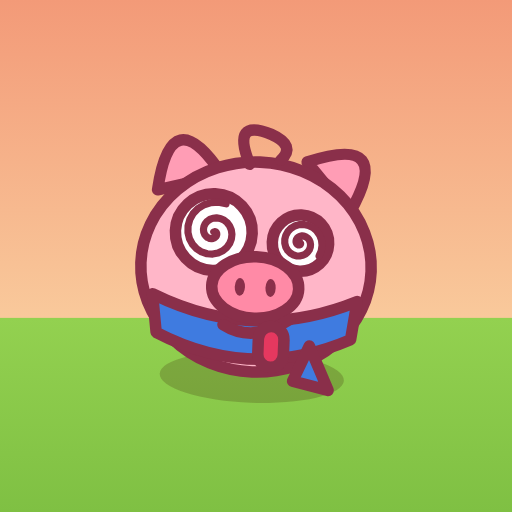
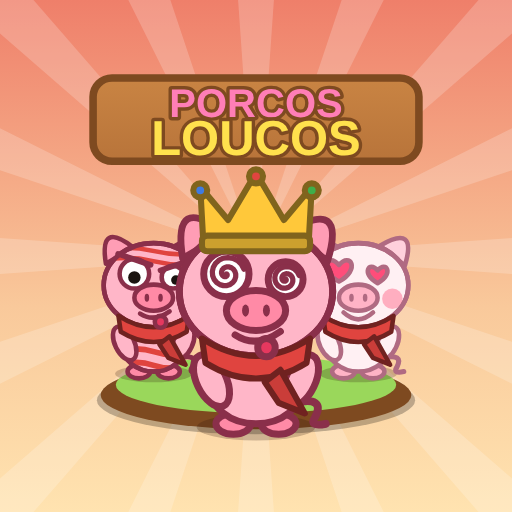
Add files via upload

diff --git a/js-09-ui.js b/js-09-ui.js
@@ -202,6 +202,28 @@ function buildChat() {
   PHRASES.forEach((x, i) => { const b = el('button', '', x); b.onclick = () => { sendChat(12 + i); $('m-chat').hidden = true; }; p.append(b); });
 }
 
+// ---------- cena da capa ----------
+function homeScene(g, w, h, t) {
+  const m = CUR_MAP, cx = w / 2;
+  g.save(); g.translate(cx, h * .52); g.rotate(t * .12);
+  for (let i = 0; i < 14; i++) { g.rotate(TAU / 14); g.fillStyle = 'rgba(255,255,255,.16)'; g.beginPath(); g.moveTo(0, 0); g.lineTo(-w * .07, -w * .8); g.lineTo(w * .07, -w * .8); g.closePath(); g.fill(); }
+  g.restore();
+  const grd = g.createRadialGradient(cx, h * .5, 0, cx, h * .5, w * .5); grd.addColorStop(0, 'rgba(255,255,255,.55)'); grd.addColorStop(1, 'rgba(255,255,255,0)'); g.fillStyle = grd; g.fillRect(0, 0, w, h);
+  // palco: tabuleiro em perspectiva
+  const py = h * .87; g.fillStyle = 'rgba(0,0,0,.22)'; g.beginPath(); g.ellipse(cx, py + 10, w * .44, h * .1, 0, 0, TAU); g.fill();
+  g.fillStyle = m.css.woodDark; g.beginPath(); g.ellipse(cx, py + 6, w * .43, h * .1, 0, 0, TAU); g.fill();
+  g.fillStyle = m.css.wood; g.beginPath(); g.ellipse(cx, py, w * .43, h * .1, 0, 0, TAU); g.fill();
+  g.fillStyle = m.tile[0]; g.beginPath(); g.ellipse(cx, py - 2, w * .39, h * .085, 0, 0, TAU); g.fill();
+  g.save(); g.beginPath(); g.ellipse(cx, py - 2, w * .39, h * .085, 0, 0, TAU); g.clip(); g.fillStyle = m.tile[1];
+  for (let i = -6; i < 7; i++) { if (i % 2) continue; g.beginPath(); g.moveTo(cx + i * w * .07, py - h * .1); g.lineTo(cx + (i + 1) * w * .07, py - h * .1); g.lineTo(cx + (i + 1) * w * .095, py + h * .1); g.lineTo(cx + i * w * .095, py + h * .1); g.fill(); }
+  g.restore();
+  // companheiros
+  const side = (ch, x, ph, flip) => { const l = { ch, o: {} }; drawPig(g, x, h * .7 + Math.sin(t * 2 + ph) * 3, w * .24, l, t, { phase: ph }); };
+  side('bacon', w * .17, 1, 0); side('fofura', w * .83, 2, 1);
+  drawPig(g, cx, h * .58 + Math.abs(Math.sin(t * 2.2)) * -6, w * .44, myLook(), t, { active: Math.sin(t * .8) > .5 });
+  // brilhos
+  for (let i = 0; i < 9; i++) { const a = Math.max(0, Math.sin(t * 2 + i * 2.3)), x = frand(i, 11) * w, y = frand(i, 12) * h * .8, r = 3 + frand(i, 13) * 4 * a; if (a < .1) continue; g.fillStyle = `rgba(255,250,200,${a})`; g.beginPath(); g.moveTo(x, y - r * 2); g.quadraticCurveTo(x, y, x + r * 2, y); g.quadraticCurveTo(x, y, x, y + r * 2); g.quadraticCurveTo(x, y, x - r * 2, y); g.quadraticCurveTo(x, y, x, y - r * 2); g.fill(); }
+}
 // ---------- laço de animação ----------
 let lastTs = 0, lastDraw = 0;
 function frame(ts) {
@@ -211,7 +233,7 @@ function frame(ts) {
   const sg = sky.getContext('2d'); sg.setTransform(sky._d, 0, 0, sky._d, 0, 0); drawSky(sg, innerWidth, T, CUR_MAP, low);
   if (P.set.fx && view.screen !== 'game' && CUR_MAP.weather) { const fg = fx.getContext('2d'); fg.setTransform(fx._d, 0, 0, fx._d, 0, 0); fg.clearRect(0, 0, innerWidth, innerHeight); weatherParticles(fg, innerWidth, innerHeight, T, CUR_MAP.weather, low, .9); }
   const v = view.screen;
-  if (v === 'home') { const cv = $('homePig'), w = cv.clientWidth || 200, g = ctxOf(cv, w, w); drawPig(g, w / 2, w * .55, w * .72, myLook(), T, { active: Math.sin(T * .8) > .6 }); }
+  if (v === 'home') { const cv = $('homePig'), w = cv.clientWidth || 300, h = cv.clientHeight || 250, g = ctxOf(cv, w, h); homeScene(g, w, h, T); }
   else if (v === 'game' && G && G.on) { stepGame(dt); renderGame(); }
   else if (v === 'shop') { const cv = $('shopPig'), w = cv.clientWidth || 130, g = ctxOf(cv, w, w); drawPig(g, w / 2, w * .62, w * .6, shopLook(), T, { active: true }); }
   else if (v === 'maps') { const S = Math.round(clamp(innerWidth - 110, 200, 360)), cv = $('mapCv'); cv.style.width = cv.style.height = S + 'px'; const d = DPR(); if (cv._k !== S + ':' + d) { cv.width = cv.height = Math.round(S * d); cv._k = S + ':' + d; } MV.st.turn = 0; const looks = [myLook(), { ch: 'bacon', o: {} }]; drawBoard(cv.getContext('2d'), S, { map: MAPS[MV.i], st: MV.st, q: 0, t: T, dpr: d, hints: null, ghost: null, disp: MV.st.p.map(p => ({ x: p.c, y: p.r })), looks, fxOn: P.set.fx, low }); }

diff --git a/style.css b/style.css
@@ -14,10 +14,13 @@ h3{font-size:16px;margin:10px 0 6px}
 .coins{background:var(--paper);border:3px solid var(--wood-dark);border-radius:20px;padding:5px 12px;font-size:16px;white-space:nowrap}
 .me{background:var(--paper);border:3px solid var(--wood-dark);border-radius:16px;padding:4px 12px;text-align:left;display:flex;flex-direction:column;font:inherit;color:inherit;line-height:1.15}
 .mename{font-size:16px}.merank{font-size:12px;opacity:.7}
-.logo{text-align:center;margin-top:4px;font-family:'Baloo 2',sans-serif;line-height:.9;transform:rotate(-3deg)}
+.logo{text-align:center;margin:6px 10px 0;padding:8px 10px 12px;font-family:'Baloo 2',sans-serif;line-height:.88;transform:rotate(-2.5deg);background:linear-gradient(var(--wood-light),var(--wood));border:4px solid var(--wood-dark);border-radius:22px;box-shadow:0 6px 0 var(--wood-dark),0 14px 20px rgba(0,0,0,.25);position:relative;animation:sway 4s ease-in-out infinite}
+.logo::before,.logo::after{content:'';position:absolute;top:-9px;width:14px;height:14px;border-radius:50%;background:#e8d9b8;border:3px solid var(--wood-dark)}
+.logo::before{left:16px}.logo::after{right:16px}
+@keyframes sway{50%{transform:rotate(-1deg) translateY(-2px)}}
 .l1{font-size:46px;color:#ff7eb6;-webkit-text-stroke:3px var(--wood-dark);paint-order:stroke fill;text-shadow:0 4px 0 var(--wood-dark)}
 .l2{font-size:58px;color:#ffe14d;-webkit-text-stroke:3px var(--wood-dark);paint-order:stroke fill;text-shadow:0 5px 0 var(--wood-dark)}
-.homepig{width:200px;height:200px;align-self:center;margin:-6px 0 -22px}
+.homepig{width:100%;max-width:340px;height:250px;align-self:center;margin:-4px 0 -6px}
 .rankbar{position:relative;height:22px;background:rgba(0,0,0,.25);border-radius:12px;overflow:hidden;border:2px solid var(--wood-dark);margin:0 20px}
 .rankfill{position:absolute;inset:0 auto 0 0;background:linear-gradient(#ffe14d,#f1a81c);width:0}
 .rankbar span{position:relative;display:block;text-align:center;font-size:12px;line-height:18px;color:#3a2410}
@@ -100,4 +103,8 @@ input[type=range]{width:150px;accent-color:var(--wood)}
 .rlines{font-size:14px;text-align:left}.rlines div{display:flex;justify-content:space-between}
 .rrew{font-size:18px;font-family:'Baloo 2'}
 #toast{position:fixed;left:50%;bottom:90px;transform:translateX(-50%);z-index:50;background:#3a2410;color:#fff;border-radius:20px;padding:10px 18px;font-size:15px;max-width:90%;text-align:center}
-@media (max-height:700px){.logo .l1{font-size:36px}.logo .l2{font-size:44px}.homepig{width:150px;height:150px}}
+@media (max-height:700px){.logo .l1{font-size:36px}.logo .l2{font-size:44px}.homepig{width:100%;max-width:340px;height:250px;align-self:center;margin:-4px 0 -6px}}
+
+#board,#mapCv,#howCv{box-sizing:content-box}
+
+.btn.big#bPlay{font-size:26px;padding:14px;animation:pulse 1.8s infinite;box-shadow:0 0 0 4px rgba(255,255,255,.35)}

diff --git a/js-05-maps.js b/js-05-maps.js
@@ -180,7 +180,7 @@ function drawBoard(g, S, o) {
   // porcos: sempre em pé, na ordem de profundidade da tela
   const vp = [], N2 = st.n; for (let i = 0; i < N2; i++) { const d = o.disp[i]; const [vx, vy] = rotPt(d.x + .5, d.y + .5, q); vp.push({ i, vx, vy }); }
   vp.sort((a, b) => a.vy - b.vy);
-  for (const v of vp) drawPig(g, v.vx * cell, v.vy * cell + cell * .15, cell * .8, o.looks[v.i], t, { ring: SEATS[v.i].color, active: st.winner < 0 && st.turn === v.i, phase: v.i * 1.9, rot: 0 });
+  for (const v of vp) drawPig(g, v.vx * cell, v.vy * cell + cell * .1, cell * .85, o.looks[v.i], t, { ring: SEATS[v.i].color, active: st.winner < 0 && st.turn === v.i, phase: v.i * 1.9, rot: 0 });
   if (o.fxOn !== false && map.weather) weatherParticles(g, S, S, t, map.weather, o.low, .7);
   // pontos voando e balões de chat
   for (const f of (o.floats || [])) { const [fx, fy] = rotPt(f.x, f.y, q), k = f.age; g.save(); g.globalAlpha = Math.max(0, 1 - k * k); g.font = `800 ${Math.round(cell * .38)}px Nunito, sans-serif`; g.textAlign = 'center'; g.lineWidth = 4; g.strokeStyle = 'rgba(60,30,10,.85)'; g.fillStyle = f.color || '#ffe14d'; g.strokeText(f.text, fx * cell, (fy - k * .9) * cell); g.fillText(f.text, fx * cell, (fy - k * .9) * cell); g.restore(); }

diff --git a/sw.js b/sw.js
@@ -1,5 +1,5 @@
 // Service worker: deixa o jogo abrir sem internet. As salas online (Firebase) nunca passam pelo cache.
-const CACHE = "porcos-loucos-v5";
+const CACHE = "porcos-loucos-v9";
 const ARQUIVOS = ["./", "index.html", "style.css", "config.js", "manifest.webmanifest", "icon-192.png", "icon-512.png", "icon-maskable-512.png", "js-00-util.js","js-01-data.js","js-02-store.js","js-03-engine.js","js-04-pig.js","js-05-maps.js","js-06-audio.js","js-07-online.js","js-08-game.js","js-09-ui.js"];
 
 const PERMITIDOS = new Set(ARQUIVOS.map(a => new URL(a, self.registration.scope).pathname));

diff --git a/js-08-game.js b/js-08-game.js
@@ -155,8 +155,8 @@ function showResult() {
 
 // ---------- entrada (toque no tabuleiro) ----------
 function boardPoint(e) {
-  const cv = $('board'), r = cv.getBoundingClientRect(), S = r.width, cell = S / 9;
-  let vx = (e.clientX - r.left) / cell, vy = (e.clientY - r.top) / cell;
+  const cv = $('board'), r = cv.getBoundingClientRect(), S = cv.clientWidth, cell = S / 9;
+  let vx = (e.clientX - r.left - cv.clientLeft) / cell, vy = (e.clientY - r.top - cv.clientTop) / cell;
   if (G.sel === 'fence' && e.pointerType === 'touch') vy -= .75;
   return rotPt(vx, vy, (4 - G.q) % 4);
 }

diff --git a/LEIA-ME.md b/LEIA-ME.md
@@ -1,3 +1,1 @@
-# Porcos Loucos — Atualização grande
-Todos os arquivos estão soltos (sem pastas), é só enviar todos para o GitHub.
-Passos: extrair o zip > abrir https://github.com/d71924807-maker/Porcos-Loucos-/upload/main > selecionar TODOS os arquivos > Commit changes > abrir o jogo duas vezes.
+Envie TODOS os arquivos para o GitHub (upload/main) e toque em Commit changes. Abra o jogo duas vezes.
